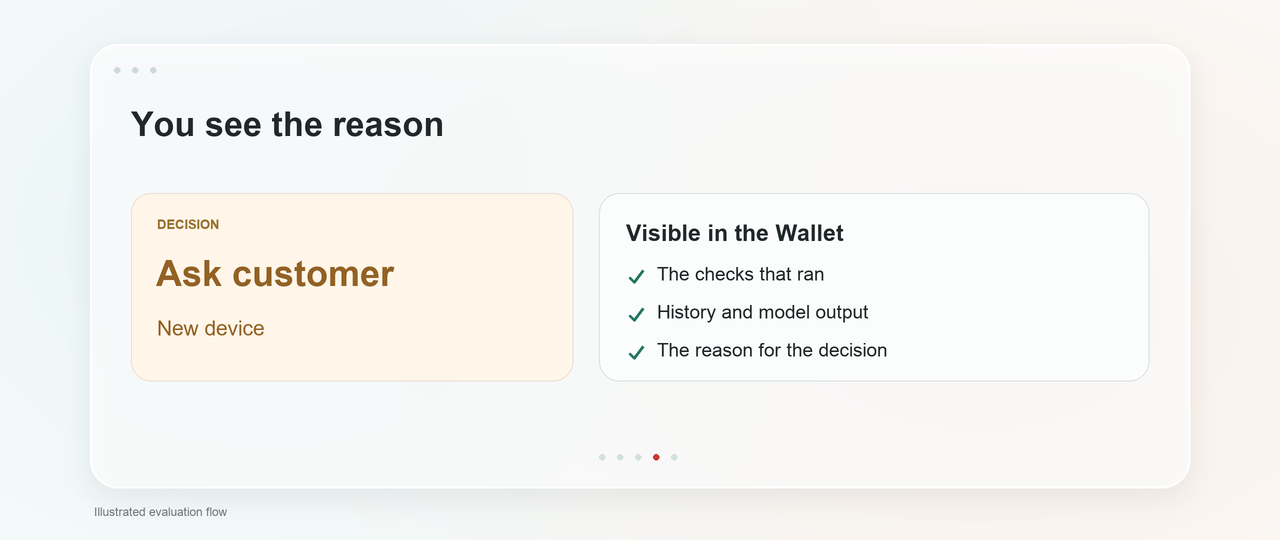
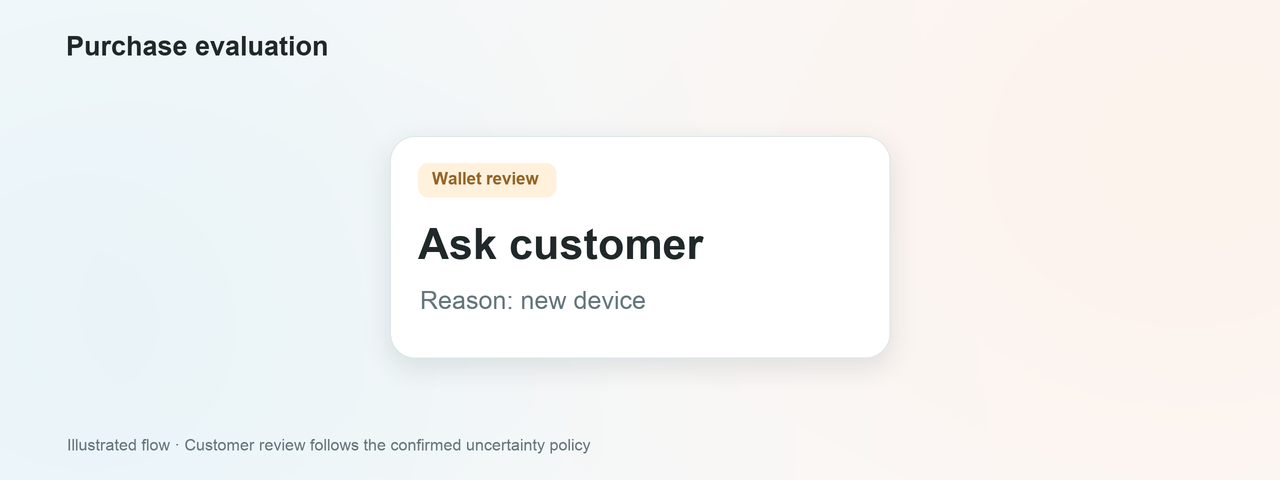
docs: restore README structure and animate classifier flow

diff --git a/README.md b/README.md
@@ -3,30 +3,69 @@
   <img src="docs/assets/readme/hero.gif" width="1280" alt="Leash">
 </picture>
 
-Leash checks the purchases an AI shopping agent submits against rules you approve in the Wallet. Set a budget and choose what it may buy. Requests that need your approval appear in the Wallet.
+# Leash
 
-[Watch the demo](docs/demo/leash-user-flow.mp4) · [Run locally](#run-locally) · [Connect an agent](docs/setup.md#connect-an-agent)
+Purchase controls for AI shopping agents.
 
-<img src="docs/assets/readme/wallet.png" width="1440" alt="The Wallet's request, policy review and spending-limit screens.">
+Leash gives your agent a spending policy that you review in the Wallet. You decide what it may buy, which merchants it may use and how much it may spend. Each submitted purchase is checked against those rules and earlier account activity. Decisions include the checks and reasons behind them.
+
+Built for the [Viseca challenge](viseca-2026/challenge.md). This prototype records purchase authorizations; it doesn't place orders or process payments.
+
+[Watch the demo](docs/demo/leash-user-flow.mp4) · [How it works](#how-it-works) · [Architecture](#architecture) · [Classifier](#the-classifier) · [Run locally](#run-locally)
+
+## How it works
+
+1. Connect an MCP-compatible shopping agent. Approve its connection and access scopes in the Wallet.
+2. Review the agent's proposed spending policy. Confirm the budget, product requirements and other limits before it can request purchases.
+3. The agent submits a cart and final amount. Leash evaluates the request against the confirmed policy, spending state and purchase history.
+4. Check the result in the Wallet. Requests needing your review wait for your answer and decline if the response window expires.
+
+<img src="docs/assets/readme/wallet.png" width="1440" alt="The Wallet's shopping request, policy review and account-wide spending-limit screens.">
 
 <sub>Local demo screens with an unconfirmed example policy.</sub>
 
 Demo music: "Wallpaper" by Kevin MacLeod (incompetech.com), [CC BY 4.0](https://creativecommons.org/licenses/by/4.0/). [Music credits](docs/demo/music/README.md). Re-record the video with `scripts/record_demo.py`.
+The Wallet also lets you revoke an agent's access and edit account-wide spending rules. Those rule changes apply to later policy confirmations. An agent's connection alone grants no spending permission.
 
 ## Architecture
 
+An external shopping agent calls Leash through MCP. The FastAPI backend serves the Wallet and handles policy confirmation and purchase requests. The decision engine evaluates structured inputs separately from transport and storage.
+
 <img src="docs/assets/readme/architecture.png" width="1280" alt="The shopping agent and customer Wallet send requests to the Leash backend. The backend calls the decision engine and stores policies, evidence and state.">
+
+Merchant descriptions are extracted into typed facts with source references. Merchant text cannot change the confirmed policy. Decisions and their evidence are saved alongside policy versions and spending state, so the Wallet can show what was checked.
+
+[Technical contracts](docs/contracts.md) · [Agent connection and tools](docs/setup.md#connect-an-agent)
 
 ## The classifier
 
-A failed policy rule means decline. The Wallet shows the checks and optional model output behind each decision. If a required assessment fails, the request stops.
+### From purchase to decision
+
+The engine checks the confirmed rules first, including amount, merchant and product restrictions. A failed rule means decline. History checks use activity from before the purchase; optional behavioural and Jev assessments add information about unusual activity. Model output cannot override a failed rule.
 
 <picture>
   <source media="(prefers-reduced-motion: reduce)" srcset="docs/assets/readme/classifier.png">
-  <img src="docs/assets/readme/classifier.gif" width="1280" alt="An illustrated sequence showing purchase inputs, policy checks, optional history models, the reason for customer review and how assessment failures stop a request.">
+  <img src="docs/assets/readme/classifier.gif" width="1280" alt="Animated example: a purchase meets its confirmed rules, history flags a new device, and the request moves to customer review.">
 </picture>
 
-<sub>The flow is illustrated. The Jev probabilities come from a [recorded response](docs/eval/jev-public-2026-09-25-evidence.json).</sub>
+| Decision | What happens |
+| :--- | :--- |
+| `approve` | The request is allowed under the confirmed policy. |
+| `decline` | A check failed, or the policy requires declining the uncertainty. |
+| `step_up` | The Wallet asks the customer to review the request. |
+
+The confirmed policy determines how uncertain facts are handled. Conflicting facts cannot produce an automatic approval.
+
+### Reasons you can inspect
+
+The Wallet shows the decision reason and the checks that ran, with history and model output when available. Required model assessments are validated against the purchase they describe. Missing, invalid or timed-out required assessments stop authorization.
+
+<picture>
+  <source media="(prefers-reduced-motion: reduce)" srcset="docs/assets/readme/evidence.png">
+  <img src="docs/assets/readme/evidence.gif" width="1280" alt="Animated decision evidence expands into a recorded Jev probability breakdown, followed by an illustrated assessment-error case that stops authorization.">
+</picture>
+
+<sub>Both animations illustrate the evaluation flow. The Jev probabilities come from a [recorded response](docs/eval/jev-public-2026-09-25-evidence.json), not a live purchase.</sub>
 
 ## Run locally
 
@@ -44,11 +83,11 @@ export LEASH_ENABLE_MODELS=0
 uv run python -m leash.api
 ```
 
-Open http://127.0.0.1:8000/app/ and create a demo account. Model calls are disabled in this setup. Shop hands requests to an external MCP client; the in-app provider adapter is unfinished.
+Open http://127.0.0.1:8000/app/ and create a demo account. This starts the Wallet with model calls disabled. Simulator-backed confirmation requires the challenge configuration described in the setup guide.
 
-[Simulator and model setup](docs/setup.md) · [Replay the public inputs](docs/run-replay.md) · [Design](docs/idea/viseca-agent-control-layer.md) · [Contracts](docs/contracts.md)
+Shop currently hands requests to an external MCP client. The in-app provider adapter is unfinished.
 
-Built for the [Viseca challenge](viseca-2026/challenge.md). This prototype records purchase authorizations. It doesn't place orders or process payments.
+[Setup guide](docs/setup.md) · [Connect an agent](docs/setup.md#connect-an-agent) · [Replay the public inputs](docs/run-replay.md) · [Design](docs/idea/viseca-agent-control-layer.md)
 
 ## Contributors
 

diff --git a/docs/plans/06-evaluation-and-demo.md b/docs/plans/06-evaluation-and-demo.md
@@ -73,3 +73,5 @@ Assets: `docs/screens/` screenshots of the mobile-first Wallet demo, the agent-s
 
 2026-09-25 11:05 david_main: demo video recorded. app/demo-stage.html embeds the real Wallet in a phone frame beside a mirrored agent chat; scripts/record_demo.py drives the Wallet with Playwright while scripts/flow_sim.py --manual runs the agent over MCP with the models on. Take 4 on a wiped store: register, connect approved, propose, confirm, buy at Alpine Basket step_up (new_device, model_history_uncertain) answered in the Wallet as approve, buy at Fresh Corner Market decline (unfamiliar_merchant), activity and the pipeline tab with the CatBoost and Jev bars. Output docs/demo/leash-user-flow.mp4 58 s at 1600x900 30 fps, gif 800 px. The step-up answer in the recording is a scripted browser tap, not a person. Commits ead3e8e, 33e8b45.
 2026-09-25 11:50 david_main: demo video reworked after David's review. Camera zooms (stage clips scrolling so Playwright's scroll-into-view cannot drag the composition), arrow pointer, "Any agent" MCP beat, side captions that dim the chat, longer holds on the messages to read. Sound: scripts/demo_audio.py synthesizes taps and the connect, confirm, approve and deny cues; the bed is Kevin MacLeod's "Wallpaper" (CC BY 4.0, docs/demo/music/README.md, credit on the outro card and in the README). Take 13: 50 s, 38 cues, mean -22 dB. Commits 35aaf1f, b17650a, 61157da, bd54ed9.
+
+2026-09-25 david_orch: revised the README with an overview, purchase flow, architecture explanation and classifier evidence. Replaced the five-page carousel with two object-motion GIFs. `python3 .cotal/build_classifier_motion.py` exited 0; Pillow readback measured 6480 ms and 6640 ms. Chrome loaded all eight README images, including contributor avatars; at a 390 px viewport the document width was 390 px. Local links resolved, quick-start commands remained unchanged and `git diff --check` passed. The animations are labelled illustrations; displayed Jev probabilities match the recorded diagnostic response. No application code, live purchase, provider call, test suite or linter.
